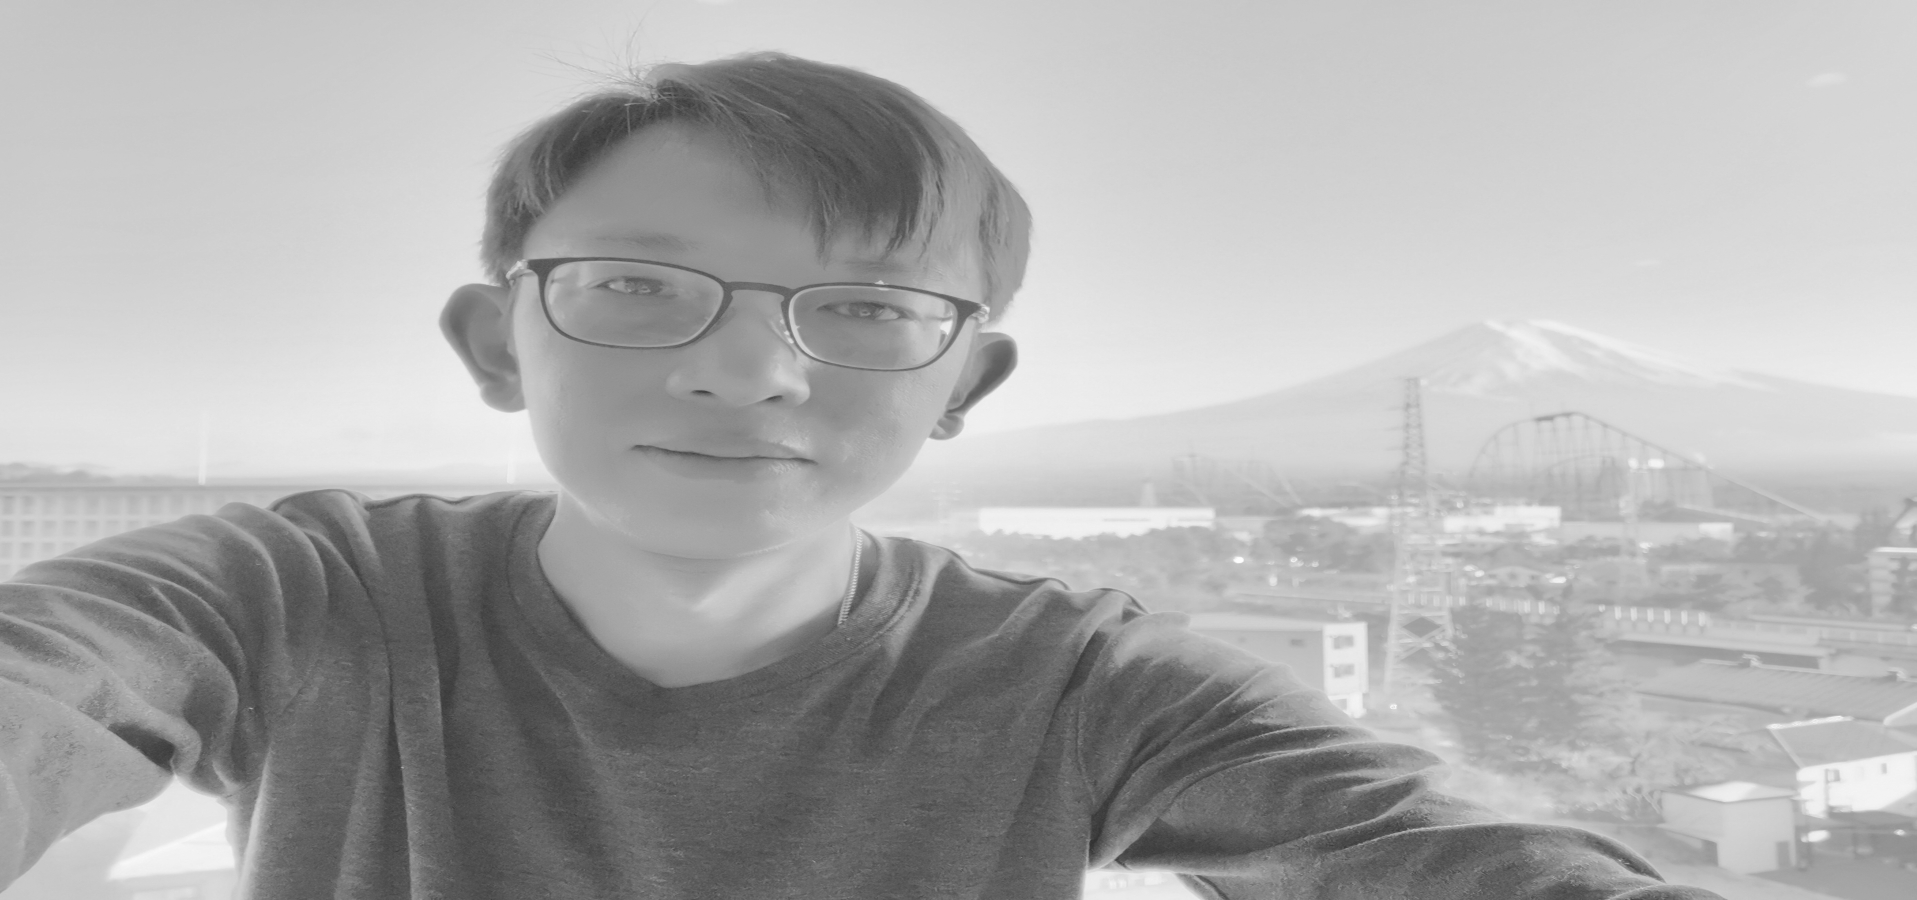
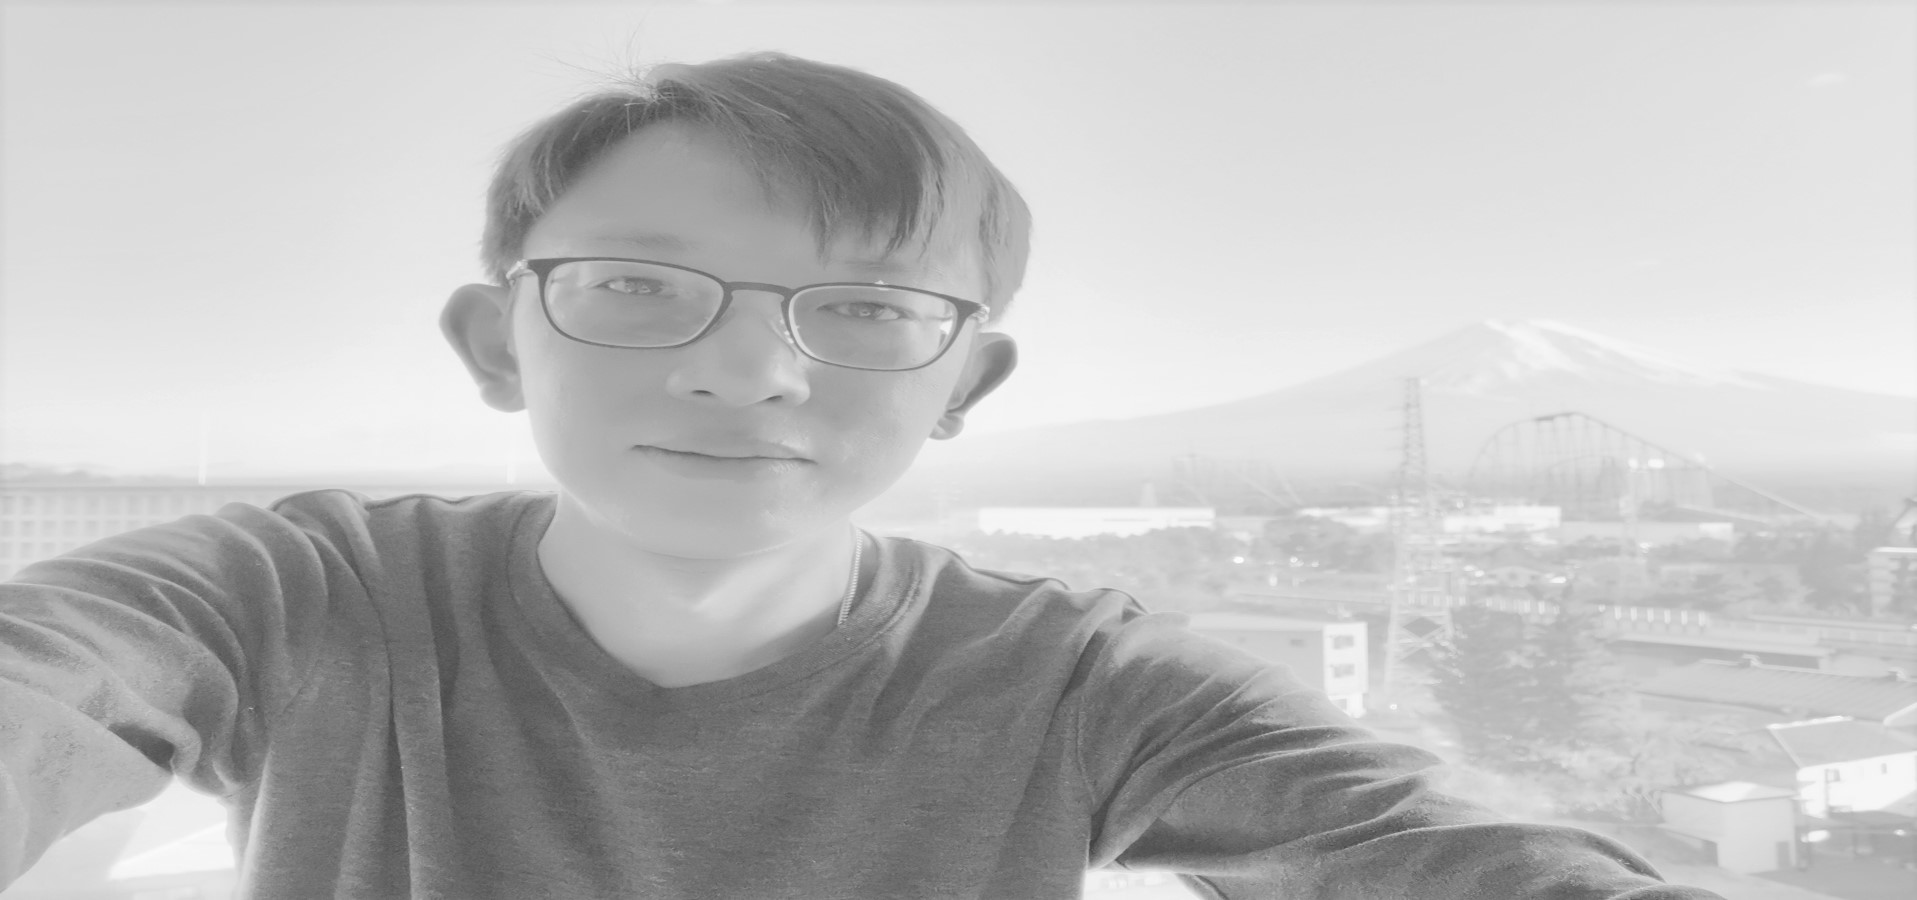
edit line 82 and 83 and edited footer photo

diff --git a/index.html b/index.html
@@ -23,7 +23,7 @@
 			<div class="main-navigation">
 				<ul class="main-navigation__ul">
 					<li><a href="#">Homepage</a></li>
-					<li><a href="https://www.google.com.sg/">Click to Search</a></li>
+					<li><a href="https://www.facebook.com/">Facebook</a></li>
 					<li><a href="#">Dun click </a></li>
 					<li><a href="#">Dun click</a></li>
 					<li><a href="#">Dun click</a></li>
@@ -74,14 +74,13 @@
 				</div>
 				<div class="portfolio__bottom">
 					<div class="portfolio__name">
-						<span>D</span>
-						<h2 class="universal-h2">Darrek Lau</h2>
+						<span>P</span>
+						<h2 class="universal-h2">roverbs 21:22</h2>
 					</div>
 					<!--<p>Darrek Lau is a local Singaporean currently in Singapore.</p>-->
 					<br>
-						Singaporean <br>
-						Chinese<br>
-						That it ! <br>
+					“Whoever pursues righteousness and love <br>
+					finds life, prosperity, and honor.”<br>
 					
 			</article>
 			<div id="myself" class="about-me__text">
